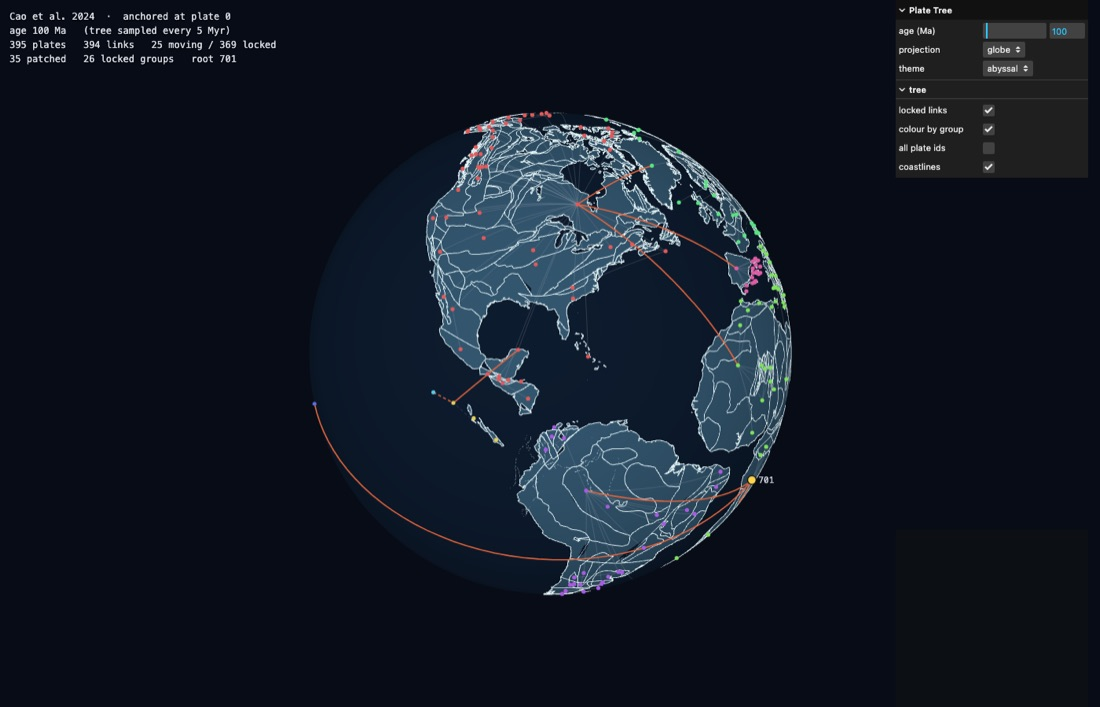
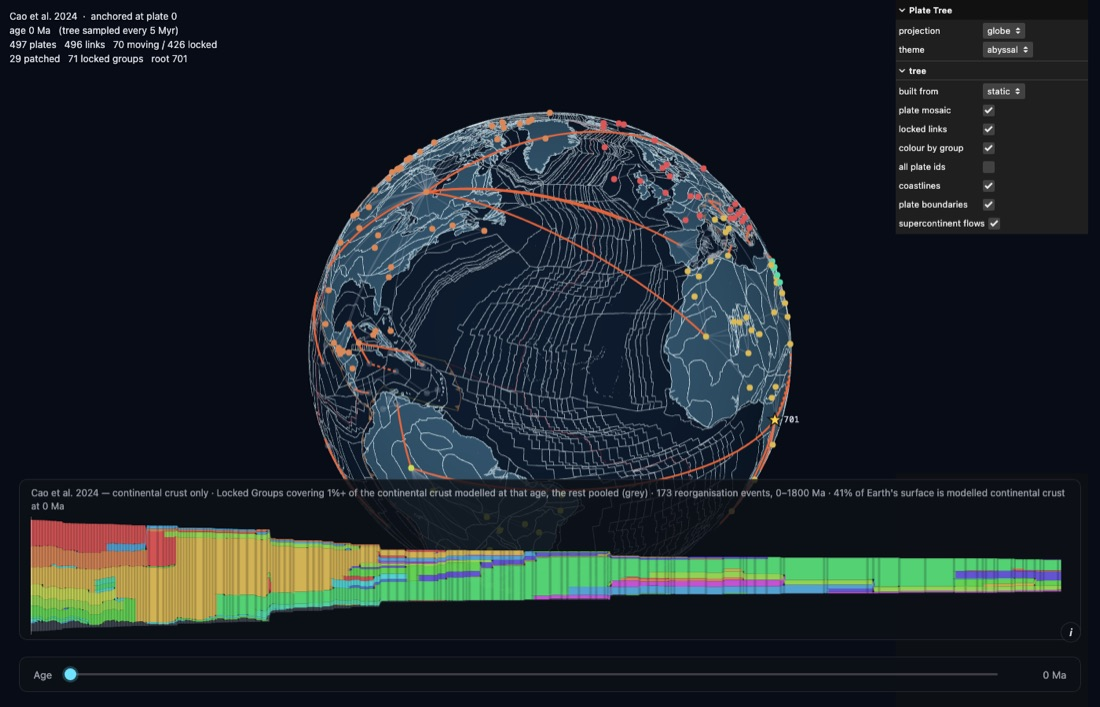
Catch the landing page up with what has actually deployed
A pass over every catalogued URL found three things had moved.

Southeast Tasmania is live. It is the only StoryMaps page on that repo's
`main`, which is what its Pages site serves; the other four sit on a
working branch and still 404, so their flags stay down.

tectonic-co2 has become TropicalSutures and moved to GeodeViewers, where
it is deployed. StoryMaps deleted its copy as superseded (da4b01b), so the
record moves files rather than being duplicated. The page itself has moved
on too: four controls rather than three, three plate models rather than
two, an 800 Ma axis, glaciations on the chart, and a panel reporting how
much of the suture compilation each reconstruction actually kept. Two of
the three models are the same named CEED model from different rotation
files, 13 degrees apart in Laurentia's latitude at 445 Ma, which is a
better reproducibility lesson than anything the old record carried.

Plate Tree v2 adds supercontinent flows: an alluvial diagram of locked
groups across all 1800 Myr, weighted by continental area rather than plate
count. The panel makes the supercontinent lesson a reading exercise on one
diagram instead of a table of group counts, so that lesson is rewritten,
and the thumbnail now shows both views.

diff --git a/data/geodeviewers.js b/data/geodeviewers.js
@@ -1,6 +1,7 @@
 // Viewers from the GeodeViewers repo: standalone, independently buildable
-// pages on Geode's engine, each deployed under one Pages site rather than
-// living in the Geode monorepo.
+// pages, each deployed under one Pages site rather than living in the Geode
+// monorepo. TropicalSutures arrived here from StoryMaps, which deleted its
+// copy as superseded.
 
 const GV = 'https://siwill22.github.io/GeodeViewers/';
 
@@ -19,6 +20,7 @@ export default [
       'A plate reconstruction is not a list of positions. It is a hierarchy of relative rotations: every plate is positioned relative to another plate, which is positioned relative to another, up to an anchor. An ordinary reconstruction map hides this completely. You cannot tell by looking at two continents that one is being placed through the other, or that its position is the product of thirty-seven composed rotations.',
       'This viewer draws the hierarchy on the globe and runs it through time, using Cao et al. (2024) from 0 to 1800 Ma, anchored at plate 0. Each plate gets a node; each hop of the hierarchy gets a link. Click a plate and it traces the full circuit back to the anchor.',
       'Most links carry no relative motion at all. At 0 Ma, 426 of 496 are locked, meaning the two plates they join move as one mass and the link is pure bookkeeping. Drawing that distinction is what turns the tree from a tangle into a reading of the model.',
+      'A second view opens beneath the globe: an alluvial diagram of those locked groups merging and splitting across the whole 1800 Myr in one picture, 173 reorganisation events in all. Band and ribbon size is spherical area of continental crust, not plate count, so a supercontinent and a one-plate sliver do not weigh the same and a group made only of oceanic fragments stays out of it.',
     ],
     contents: [
       ['Nodes', 'One per plate carrying geometry at the current age, placed at the boundary centroid of that plate\'s largest polygon.'],
@@ -29,13 +31,16 @@ export default [
       ['Static polygons or topologies', 'Two different statements about the same model: the tree from rigid static polygons (497 plates at 0 Ma, 70 moving links and 426 locked) or from resolved topologies (46 plates, 37 moving and 7 locked).'],
       ['The plate mosaic', 'Every static polygon, oceanic as well as continental, with coastlines drawn over it. Toggleable.'],
       ['Centre longitude', 'Slides the central meridian on a flat map, so the Pacific can sit in the middle instead of split down the antimeridian.'],
+      ['Supercontinent flows', 'An alluvial diagram of the locked groups through all 1800 Myr: 173 reorganisation events, groups holding 1%+ of the continental crust modelled at that age given their own band and the rest pooled in grey.'],
+      ['Lineage colour', 'A band inherits the colour of whichever earlier band gave it the most area, so a colour reads as one mass of crust rather than a group id. The globe\'s nodes take the same colours while the panel is open, so the two views agree.'],
       ['Projections', 'Globe, Robinson and Plate Carrée.'],
     ],
     controls: [
       'Drag to rotate the globe, or drag a flat map to scroll longitude.',
       'The age slider runs 0 to 1800 Ma; the tree is sampled every 5 Myr.',
       'Click a plate to trace its circuit to the anchor.',
-      'Toggle locked links, group colouring, plate id labels and coastlines from the panel.',
+      'Toggle locked links, group colouring, plate id labels, coastlines and plate boundaries from the panel.',
+      'Toggle supercontinent flows to open the alluvial diagram; hover a band for its plate ids, its share of Earth\'s surface and the ages it spans.',
       'Switch "built from" between static polygons and topologies.',
     ],
     lessons: [
@@ -72,19 +77,19 @@ export default [
         ],
       },
       {
-        title: 'Supercontinents, counted without looking at a map',
+        title: 'Read the supercontinent cycle off one diagram',
         level: 'Senior secondary',
         duration: '50 min',
-        body: 'The number of locked groups is how many independently moving masses the model contains. It falls as continents assemble, and the fall is visible without inspecting any geography.',
+        body: 'The flows panel shows 1800 Myr of continental crust merging and splitting in a single picture. Students find the assemblies in it before being told where they are.',
         steps: [
-          'Turn on group colouring and record the locked group count at 0, 100, 250, 500 and 1000 Ma.',
-          'Plot count against age.',
-          'Mark the known supercontinent assemblies on the same axis.',
-          'Check the map at the lowest count and describe what the world looks like there.',
+          'Open supercontinent flows and find the ages where many bands merge into few.',
+          'Find the ages where one wide band breaks into several.',
+          'Name each event against Rodinia, Gondwana and Pangaea, and check the ages.',
+          'Hover the widest band at 300 Ma and read which plate ids it contains.',
         ],
         discussion: [
-          'Does a falling group count prove continents were joined, or only that the model moves them together?',
-          'What would a model with one group everywhere be saying?',
+          'Does a merge in this diagram prove continents were joined, or only that the model moves them together?',
+          'Bands are weighted by continental area. What would the diagram look like weighted by plate count instead?',
         ],
       },
       {
@@ -98,6 +103,91 @@ export default [
           'Run the age slider and let the whole structure reorganise.',
         ],
         discussion: ['If everything moves relative to something else, what is anything measured against?'],
+      },
+    ],
+  },
+  {
+    slug: 'tropical-sutures',
+    title: 'Tropical suture length',
+    tagline: 'Every version of the same curve, drawn at once.',
+    collection: 'Globe viewers',
+    kind: 'Interactive map',
+    url: GV + 'TropicalSutures/',
+    live: true,
+    repo: 'https://github.com/siwill22/GeodeViewers',
+    thumb: 'tropical-sutures.jpg',
+    status: 'Prototype.',
+    summary: [
+      'Active suture length in the tropics from 800 Ma to the present, reconstructed under every combination of plate model, activity definition, latitude band and band edge the source dataset enumerates, with all of them drawn at once. The bright line is the combination currently set; every faint line behind it is a different setting somebody could defend.',
+      'The point is sensitivity, not uncertainty. Tropical suture length is not a measurement. It is the output of four choices, the source tabulates all of them, one combination got published, and this page lets you move them and watch the curve move.',
+      'There is no correlation coefficient anywhere, deliberately. Correlating two heavily autocorrelated geological series inflates r and makes p meaningless, and quoting one would be the exact flaw the page exists to expose. There is no net-flux line either, because net flux without a thermostat is not a meaningful quantity.',
+      'A panel headed "what the reconstruction lost" reports, per model, how many sutures were dropped and how many were clamped to their plate\'s defined age range, with the percentage of the compilation length that survived. The page is scoped to this one mechanism permanently; the other drivers are planned as separate sibling pages.',
+    ],
+    contents: [
+      ['Three plate models', 'Merdith et al. (2021), Torsvik & Cocks (2017) CEED, and CEED with Swanson-Hysell, Macdonald and Domeier. Each reconstructs on the anchor plate it is meant to be used with.'],
+      ['The same model twice', 'Two of the three are the same named CEED model from two different rotation files, one as gprm distributes it and one as the source\'s own repository ships it. They put Laurentia 13° apart in latitude at 445 Ma.'],
+      ['Four activity definitions', 'Exhumation max to present (cumulative), exhumation interval (the published choice), magmatic interval and metamorphic interval. Only one is drawn at a time, because the cumulative one peaks around seven times higher and drawing them together would flatten the rest.'],
+      ['Four latitude bands', '±10°, ±15° (published), ±20° and ±40°, as tabulated by the source.'],
+      ['Band edge', 'A hard edge, which is what every published version uses, or a cosine taper, which is this page\'s own and is labelled as such.'],
+      ['The published curve', 'Macdonald et al. (2019) within-15° suture length, drawn as the reference.'],
+      ['Glacial extent', 'A measured band beneath the curves, with the Sturtian, Marinoan and Gaskiers glaciations named.'],
+      ['Latitude histogram', 'Suture length by latitude at the current age, beside the map.'],
+      ['What the reconstruction lost', 'Sutures dropped and clamped per model, with the fraction of compilation length that reconstructs.'],
+    ],
+    controls: [
+      'Drag to pan, scroll to zoom. Globe / Map switches projection.',
+      'Scrub the slider or press ▶. The axis runs 800 Ma to 0 Ma.',
+      'Click a control value to highlight it. Plate model, band and band edge keep drawing every value; activity definition draws only the one clicked.',
+      'Hover a line in the chart to name its combination, click to snap the controls to it.',
+      '#lon,lat,zoom,time in the URL pins the view.',
+    ],
+    lessons: [
+      {
+        title: 'How many curves fit under one published figure?',
+        level: 'Undergraduate',
+        duration: '90 min seminar',
+        body: 'A methods lesson disguised as a tectonics lesson. Students find the published combination, then open each choice in turn and watch the envelope grow.',
+        steps: [
+          'Set the controls to the published combination: exhumation interval, ±15°, hard edge.',
+          'Describe the curve in words, then let the plate model vary and describe how far it moves.',
+          'Open the latitude band, then the band edge, noting the spread each one adds.',
+          'Identify which single choice the result is most sensitive to.',
+        ],
+        discussion: [
+          'If a published figure shows one of these curves, what is the honest way to present the rest?',
+          'Is the spread across choices an uncertainty? What would you have to add to make it one?',
+        ],
+      },
+      {
+        title: 'The same model, two files, 13 degrees apart',
+        level: 'Undergraduate',
+        duration: '60 min practical',
+        body: 'Two of the three plate models carry the same name. They come from different rotation files and they disagree about where Laurentia was, which is a reproducibility problem rather than a scientific one.',
+        steps: [
+          'Set the age to 445 Ma and switch between the two CEED entries, watching Laurentia.',
+          'Measure the latitude difference and check it against the 13° the page states.',
+          'Read "what the reconstruction lost" for each and compare the dropped and clamped counts.',
+          'Decide which file you would cite, and what you would have to write down to make the choice reproducible.',
+        ],
+        discussion: [
+          'Does citing a model by name identify what you actually ran?',
+          'What would a paper need to report for someone else to reproduce this curve exactly?',
+        ],
+      },
+      {
+        title: 'Mountains, weathering and the thermostat',
+        level: 'Senior secondary',
+        duration: '50 min',
+        body: 'Why anyone would care about suture length in the tropics in the first place.',
+        steps: [
+          'Establish the chain: collision makes mountains, mountains in the wet tropics weather fast, weathering consumes CO₂.',
+          'Use the map to find intervals when a lot of suture sat inside the tropical band.',
+          'Check those intervals against the glaciations marked on the chart.',
+        ],
+        discussion: [
+          'Every link in that chain is plausible. Which one is weakest?',
+          'The glacial band is measured and the curves are computed. Why does the page draw them differently?',
+        ],
       },
     ],
   },

diff --git a/data/storymaps.js b/data/storymaps.js
@@ -1,10 +1,12 @@
 // The StoryMaps pages: https://github.com/siwill22/StoryMaps
 //
-// Four of these (plate-boundaries, zircons, detrital-zircons, tectonic-co2)
-// are one family sharing a globe, a clock and a legend; lips and
-// southeast-tasmania are scroll-driven narratives. None are deployed yet, so
-// each record carries `live: false`, which puts the "not yet deployed" badge
-// on its card.
+// Three of these (plate-boundaries, zircons, detrital-zircons) are one family
+// sharing a globe, a clock and a legend; lips and southeast-tasmania are
+// scroll-driven narratives.
+//
+// Only southeast-tasmania is on StoryMaps' `main`, which is what its Pages
+// site serves. The rest live on a working branch and so return 404, which is
+// what `live: false` records.
 
 const SM = 'https://siwill22.github.io/StoryMaps/';
 
@@ -277,87 +279,13 @@ export default [
     ],
   },
   {
-    slug: 'tectonic-co2',
-    title: 'Tectonic drivers of atmospheric CO₂',
-    tagline: 'Every version of the same curve, drawn at once.',
-    collection: 'Story maps',
-    kind: 'Interactive map',
-    url: SM + 'tectonic-co2/',
-    live: false,
-    repo: 'https://github.com/siwill22/StoryMaps',
-    thumb: 'tectonic-co2.jpg',
-    summary: [
-      'Active suture length in the tropics, reconstructed under every combination of plate model, activity definition and latitude band that the source dataset enumerates, with all of them drawn at once as a bundle of curves.',
-      'The page shows sensitivity rather than uncertainty. "Tropical suture length" is not a measurement; it is the output of three choices. All three are enumerated in the source data, one combination got published, and this page lets you move them and watch the curve move.',
-      'There is no correlation coefficient anywhere on the page. Correlating two heavily autocorrelated geological series inflates r and makes p meaningless, and quoting one would be exactly the flaw the page exists to expose. There is no net-flux line either, because net flux without a thermostat is not a meaningful quantity.',
-      'Selecting a model swaps its continents, its boundaries and its sutures together, so the model control visibly does as much as it actually does.',
-    ],
-    contents: [
-      ['The knob → belt → bundle loop', 'Set a choice, see the belt it implies on the map, see the curve it implies in the chart.'],
-      ['Three enumerated choices', 'Plate model, which tabulated age interval counts as "active", and how wide "tropical" is.'],
-      ['Vary across the bundle', 'Tick a control to let it spread, and every value it can take is drawn together.'],
-      ['Hover to identify', 'Hover a line in the chart to name its combination, click to snap the controls to it.'],
-      ['Whole-map model swap', 'Continents, boundaries and sutures move together when the model changes.'],
-    ],
-    controls: [
-      'Drag to pan, scroll to zoom.',
-      'Scrub the slider or press ▶.',
-      'Click a control to set it; tick "vary across the bundle" to let it spread.',
-      'Globe / Map switches projection. #lon,lat,zoom,time pins the view.',
-    ],
-    lessons: [
-      {
-        title: 'How many curves fit under one published figure?',
-        level: 'Undergraduate',
-        duration: '90 min seminar',
-        body: 'A methods lesson disguised as a tectonics lesson. Students find the published combination, then open up each choice in turn and watch the envelope grow.',
-        steps: [
-          'Set the three controls to one specific combination and describe the curve in words.',
-          'Let the plate model vary and describe how much the curve moves.',
-          'Let the activity definition vary, then the latitude band.',
-          'Identify which single choice the result is most sensitive to.',
-        ],
-        discussion: [
-          'If a published figure shows one of these curves, what is the honest way to present the rest?',
-          'Is the spread across choices an uncertainty? What would you have to add to make it one?',
-        ],
-      },
-      {
-        title: 'Why there is no correlation coefficient on this page',
-        level: 'Undergraduate',
-        duration: '60 min tutorial',
-        body: 'The absence is the lesson. Work through why an r value between two smooth geological time series is close to meaningless.',
-        steps: [
-          'Generate two independent random walks and correlate them; note how high r routinely gets.',
-          'Explain the result in terms of autocorrelation and effective sample size.',
-          'Return to the page and ask what statistic, if any, would be defensible here.',
-        ],
-        discussion: [
-          'How many effectively independent data points does a 500 Myr curve sampled every 1 Myr actually contain?',
-        ],
-      },
-      {
-        title: 'Mountains, weathering and the thermostat',
-        level: 'Senior secondary',
-        duration: '50 min',
-        body: 'Why anyone would care about suture length in the tropics in the first place.',
-        steps: [
-          'Establish the chain: collision makes mountains, mountains in the wet tropics weather fast, weathering consumes CO₂.',
-          'Use the map to find intervals when a lot of suture sat in the tropical band.',
-          'Check those intervals against known cold periods.',
-        ],
-        discussion: ['Every link in that chain is plausible. Which one is weakest?'],
-      },
-    ],
-  },
-  {
     slug: 'southeast-tasmania',
     title: 'Southeast Tasmania',
     tagline: 'Gondwana to dolerite, at Port Arthur and Eaglehawk Neck.',
     collection: 'Story maps',
     kind: 'Scroll-driven story',
     url: SM + 'southeast-tasmania/',
-    live: false,
+    live: true,
     repo: 'https://github.com/siwill22/StoryMaps',
     thumb: 'southeast-tasmania.jpg',
     summary: [

diff --git a/README.md b/README.md
@@ -6,7 +6,7 @@
 data/           the catalog: one record per viewer, all the prose lives here
   geode.js        the five Geode globe viewers
   geodeviewers.js the standalone GeodeViewers pages
-  storymaps.js    the six StoryMaps pages
+  storymaps.js    the five StoryMaps pages
   surveys.js      the marine survey globe and HistMag
   maps.js         the Spilhaus seafloor age map
   index.js        concatenates them, plus site-level copy and the logo row
@@ -39,6 +39,10 @@ A record needs `slug`, `title`, `tagline`, `collection`, `kind`, `url`, `live`,
 `repo`, `thumb`, `summary`, `contents`, `controls` and `lessons`. The build
 throws on a duplicate slug, an unknown collection or an unknown lesson level
 rather than quietly producing a page nobody can reach.
+
+Live flags go stale as the viewers' own repos deploy. `node build.mjs` does not
+check them; a periodic pass over each `url` is what catches a viewer that has
+gone live, or one that has moved.
 
 `live: false` marks a viewer that is built but not yet published: the panel
 gets a "not yet deployed" badge and the launch button is replaced with a note
